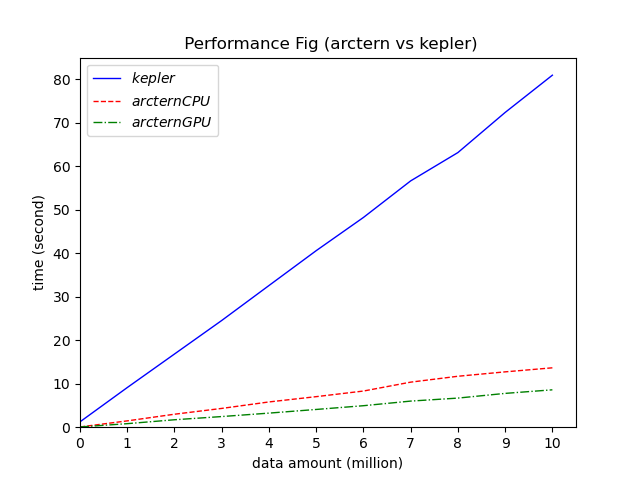
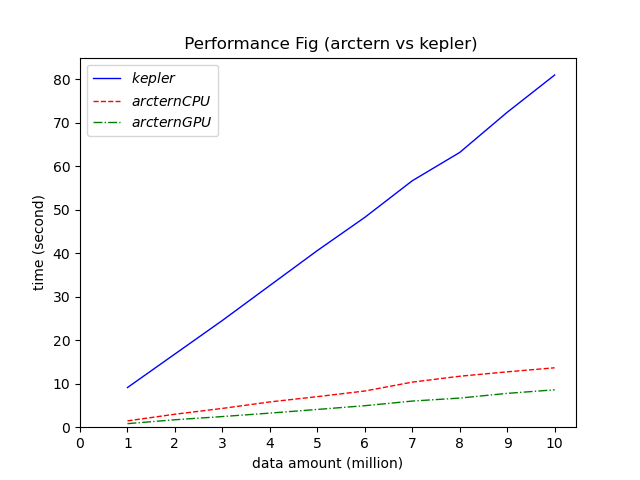
update

diff --git a/arctern/kepler/perf-test/plot.py b/arctern/kepler/perf-test/plot.py
@@ -20,11 +20,11 @@ def get_perf_data(log):
 def plot_line_chart2(arr_kepler,arr_arctern_cpu,arr_arctern_gpu):
     perf_picture = plot_dir +'perf.png'
     perf_fig_title = ' Performance Fig (arctern vs kepler)'
-    index1 = list(range(0, len(arr_kepler) - 2))
-    index2 = list(range(0, len(arr_arctern_cpu) - 2))
-    plt.plot(index1, arr_kepler[0:11], label="$kepler$", color="blue", linewidth=1)
-    plt.plot(index2, arr_arctern_cpu[0:11], label="$arctern  CPU$", color="red", linestyle='--', linewidth=1)
-    plt.plot(index2, arr_arctern_gpu[0:11], label="$arctern  GPU$", color="green", linestyle='-.', linewidth=1)
+    index1 = list(range(1, len(arr_kepler) - 2))
+    index2 = list(range(1, len(arr_arctern_cpu) - 2))
+    plt.plot(index1, arr_kepler[1:11], label="$kepler$", color="blue", linewidth=1)
+    plt.plot(index2, arr_arctern_cpu[1:11], label="$arctern  CPU$", color="red", linestyle='--', linewidth=1)
+    plt.plot(index2, arr_arctern_gpu[1:11], label="$arctern  GPU$", color="green", linestyle='-.', linewidth=1)
     plt.xlabel("data amount (million)")  # X label
     plt.ylabel("time (second)")  # Y label
     plt.title(perf_fig_title)
@@ -68,6 +68,6 @@ plot_dir = '/tmp/'
 # main invocation
 if __name__ == "__main__":
      arr_kepler,arr_arctern_cpu,arr_arctern_gpu = get_perf_data(log_file)
-     calculate_mean(list(map(float,arr_kepler)),list(map(float,arr_arctern_cpu)),list(map(float,arr_arctern_gpu)))
+     # calculate_mean(list(map(float,arr_kepler)),list(map(float,arr_arctern_cpu)),list(map(float,arr_arctern_gpu)))
      # print_form(list(map(float,arr_kepler)),list(map(float,arr_arctern_cpu)),list(map(float,arr_arctern_gpu)))
-     # plot_line_chart2(list(map(float,arr_kepler)),list(map(float,arr_arctern_cpu)),list(map(float,arr_arctern_gpu)))
+     plot_line_chart2(list(map(float,arr_kepler)),list(map(float,arr_arctern_cpu)),list(map(float,arr_arctern_gpu)))

diff --git a/arctern/kepler/perf-test/README.md b/arctern/kepler/perf-test/README.md
@@ -2,15 +2,15 @@
 
 ## 1. 测试数据
 - 数据集：深圳运营车辆，1000w 行
-- 数据量：测试 10 ( ≈ 0 ) 到 1000w，每次递增 100w
+- 数据量：测试 100w 到 1000w，每次递增 100w
 
 ## 2. 测试结果
 
-|数据量(百万)	  |≈ 0 |1	|2	|3	|4	|5	|6	|7	|8	|9	|10	|
-| --------   | -----:   | :----: | :----: | :----: | :----: | :----: | :----: | :----: | :----: | :----: | :----: |
-|**kepler**	|1.23|9.11|16.82|24.53|32.56|40.58|48.22|56.62|63.13|72.36|80.92|87.22|95.57|
-|**arctern CPU**	|0.05|1.45|2.98|4.32|5.81|7.02|8.31|10.36|11.71|12.72|13.65|14.67|16.17|
-|**arctern GPU**	|0.05|0.81|1.71|2.45|3.24|4.08|4.94|6.00|6.69|7.77|8.59|9.37|10.24|
+|数据量(百万)	  |1	|2	|3	|4	|5	|6	|7	|8	|9	|10	|
+| --------   | -----:   | :----: | :----: | :----: | :----: | :----: | :----: | :----: | :----: | :----: |
+|**kepler**	|9.11|16.82|24.53|32.56|40.58|48.22|56.62|63.13|72.36|80.92|87.22|95.57|
+|**arctern CPU**	|1.45|2.98|4.32|5.81|7.02|8.31|10.36|11.71|12.72|13.65|14.67|16.17|
+|**arctern GPU**	|0.81|1.71|2.45|3.24|4.08|4.94|6.00|6.69|7.77|8.59|9.37|10.24|
 
 - arctern CPU 平均比 kepler 快 5.72 倍;
 
